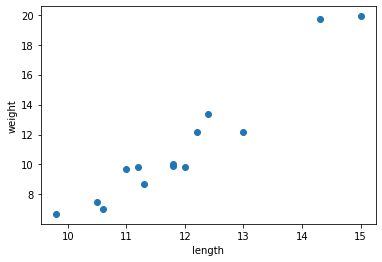
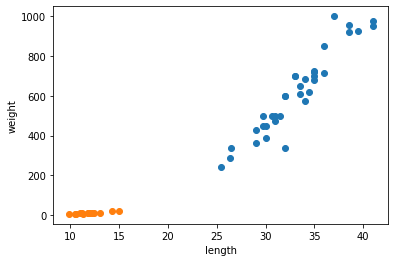
My Labtop _ updated _ images10

diff --git a/source/_posts/day0629_ml.md b/source/_posts/day0629_ml.md
@@ -1,10 +1,3 @@
----
-title: "day0629_ml"
-date: '2022-06-29 10:10:00'
----
-
-
-
 ## 파이썬 주요 라이브러리
   """- Machine learning
   + 정형 데이터
@@ -80,6 +73,7 @@ ax.scatter(bream_length, bream_weight)
 ax.set_xlabel('length')
 ax.set_ylabel('length')
 plt.show() #이처럼 많이쓰니까 이렇게 쓰기. 외우기.암기.
+
 ```
 
 
@@ -95,10 +89,10 @@ plt.show() #이처럼 많이쓰니까 이렇게 쓰기. 외우기.암기.
 smelt_length = [9.8, 10.5, 10.6, 11.0, 11.2, 11.3, 11.8, 11.8, 12.0, 12.2, 12.4, 13.0, 14.3, 15.0]
 smelt_weight = [6.7, 7.5, 7.0, 9.7, 9.8, 8.7, 10.0, 9.9, 9.8, 12.2, 13.4, 12.2, 19.7, 19.9]
 
-fig, ax = plt.subplots()
-ax. scatter(smelt_length, smelt_weight)
-ax. set_xlabel('length')
-ax. set_ylabel('weight')
+plt.scatter(bream_length, bream_weight)
+plt.scatter(smelt_length, smelt_weight)
+plt.xlabel('length')
+plt.ylabel('weight')
 plt.show()
 ```
 
@@ -112,7 +106,7 @@ plt.show()
 
 
 ```python
-legnth  = bream_length + smelt_length
+length  = bream_length + smelt_length
 weight = bream_weight + smelt_weight
 ```
 
@@ -120,17 +114,15 @@ weight = bream_weight + smelt_weight
 
 
 ```python
-fish_data = [[l,w ]] for l, w in zip( length, weight)]
-fish_data[0:5]
+fish_data = [[l,w]for l, w in zip(length,weight)]
+
+print(fish_data)
+
+## [l,m]에서  m을 w로 해놔서 계속 오류가 났었네..
 ```
 
-
-      File "<ipython-input-44-e1245d48509d>", line 1
-        fish_data = [[l,w ]] for l, w in zip( length, weight)]
-                               ^
-    SyntaxError: invalid syntax
+    [[25.4, 242.0], [26.3, 290.0], [26.5, 340.0], [29.0, 363.0], [29.0, 430.0], [29.7, 450.0], [29.7, 500.0], [30.0, 390.0], [30.0, 450.0], [30.7, 500.0], [31.0, 475.0], [31.0, 500.0], [31.5, 500.0], [32.0, 340.0], [32.0, 600.0], [32.0, 600.0], [33.0, 700.0], [33.0, 700.0], [33.5, 610.0], [33.5, 650.0], [34.0, 575.0], [34.0, 685.0], [34.5, 620.0], [35.0, 680.0], [35.0, 700.0], [35.0, 725.0], [35.0, 720.0], [36.0, 714.0], [36.0, 850.0], [37.0, 1000.0], [38.5, 920.0], [38.5, 955.0], [39.5, 925.0], [41.0, 975.0], [41.0, 950.0], [9.8, 6.7], [10.5, 7.5], [10.6, 7.0], [11.0, 9.7], [11.2, 9.8], [11.3, 8.7], [11.8, 10.0], [11.8, 9.9], [12.0, 9.8], [12.2, 12.2], [12.4, 13.4], [13.0, 12.2], [14.3, 19.7], [15.0, 19.9]]
     
-
 
 - 라벨링 해준다 = 지도해준다
 = 지도 학습 
@@ -140,6 +132,9 @@ fish_data[0:5]
 fish_target = [1] * 35 + [0] *14
 print(fish_target)
 ```
+
+    [1, 1, 1, 1, 1, 1, 1, 1, 1, 1, 1, 1, 1, 1, 1, 1, 1, 1, 1, 1, 1, 1, 1, 1, 1, 1, 1, 1, 1, 1, 1, 1, 1, 1, 1, 0, 0, 0, 0, 0, 0, 0, 0, 0, 0, 0, 0, 0, 0]
+    
 
 ## 모델
 
@@ -153,6 +148,13 @@ kn = KNeighborsClassifier()
 # 모형 학습
 kn.fit(fish_data, fish_target)
 ```
+
+
+
+
+    KNeighborsClassifier()
+
+
 
 
 ```python
@@ -174,50 +176,35 @@ print(preds)
 
 if preds == 1:
   print("도미")
+
 else:
   print("빙어")
 ```
 
-    물고기 길이를 입력하세요...30
-    물고기 무게를 입력하세요...600
+    물고기 길이를 입력하세요...10
+    물고기 무게를 입력하세요...50
+    0
+    빙어
     
 
 
-    ---------------------------------------------------------------------------
+```python
+'''
+ blog 파일에 넣는 행동 = 백업해두기 위해서(파일 그대로)
+ 왜냐하면 lysyeah.github.io 에
+ 저장할 때 html 확장자로 저장되기 때문에 
+ 수정할 때 불편하다.
 
-    NotFittedError                            Traceback (most recent call last)
+ 구글 코랩에서 .ipynb 다운로드 후---> anaconda 
+--> open the file(= .ipynb)
+--> convert to MD (Mark Down) = saving.md
+--> sourcetree로 add, commit, push 하기.
+--> blog 파일을 우클릭 해서 파이참으로 켠다
+--> hexo 해서 실제 블로그에 올려야하는데 잘 모르겠다.
 
-    <ipython-input-48-f3523e4bb951> in <module>()
-          2 ac_weight = int(input("물고기 무게를 입력하세요..."))
-          3 
-    ----> 4 preds = int(kn.predict([[ac_length, ac_weight]]))
-          5 print(preds)
-          6 
-    
 
-    /usr/local/lib/python3.7/dist-packages/sklearn/neighbors/_classification.py in predict(self, X)
-        212             Class labels for each data sample.
-        213         """
-    --> 214         neigh_dist, neigh_ind = self.kneighbors(X)
-        215         classes_ = self.classes_
-        216         _y = self._y
-    
 
-    /usr/local/lib/python3.7/dist-packages/sklearn/neighbors/_base.py in kneighbors(self, X, n_neighbors, return_distance)
-        698                [2]]...)
-        699         """
-    --> 700         check_is_fitted(self)
-        701 
-        702         if n_neighbors is None:
-    
 
-    /usr/local/lib/python3.7/dist-packages/sklearn/utils/validation.py in check_is_fitted(estimator, attributes, msg, all_or_any)
-       1220 
-       1221     if not fitted:
-    -> 1222         raise NotFittedError(msg % {"name": type(estimator).__name__})
-       1223 
-       1224 
-    
 
-    NotFittedError: This KNeighborsClassifier instance is not fitted yet. Call 'fit' with appropriate arguments before using this estimator.
-
+'''
+```
